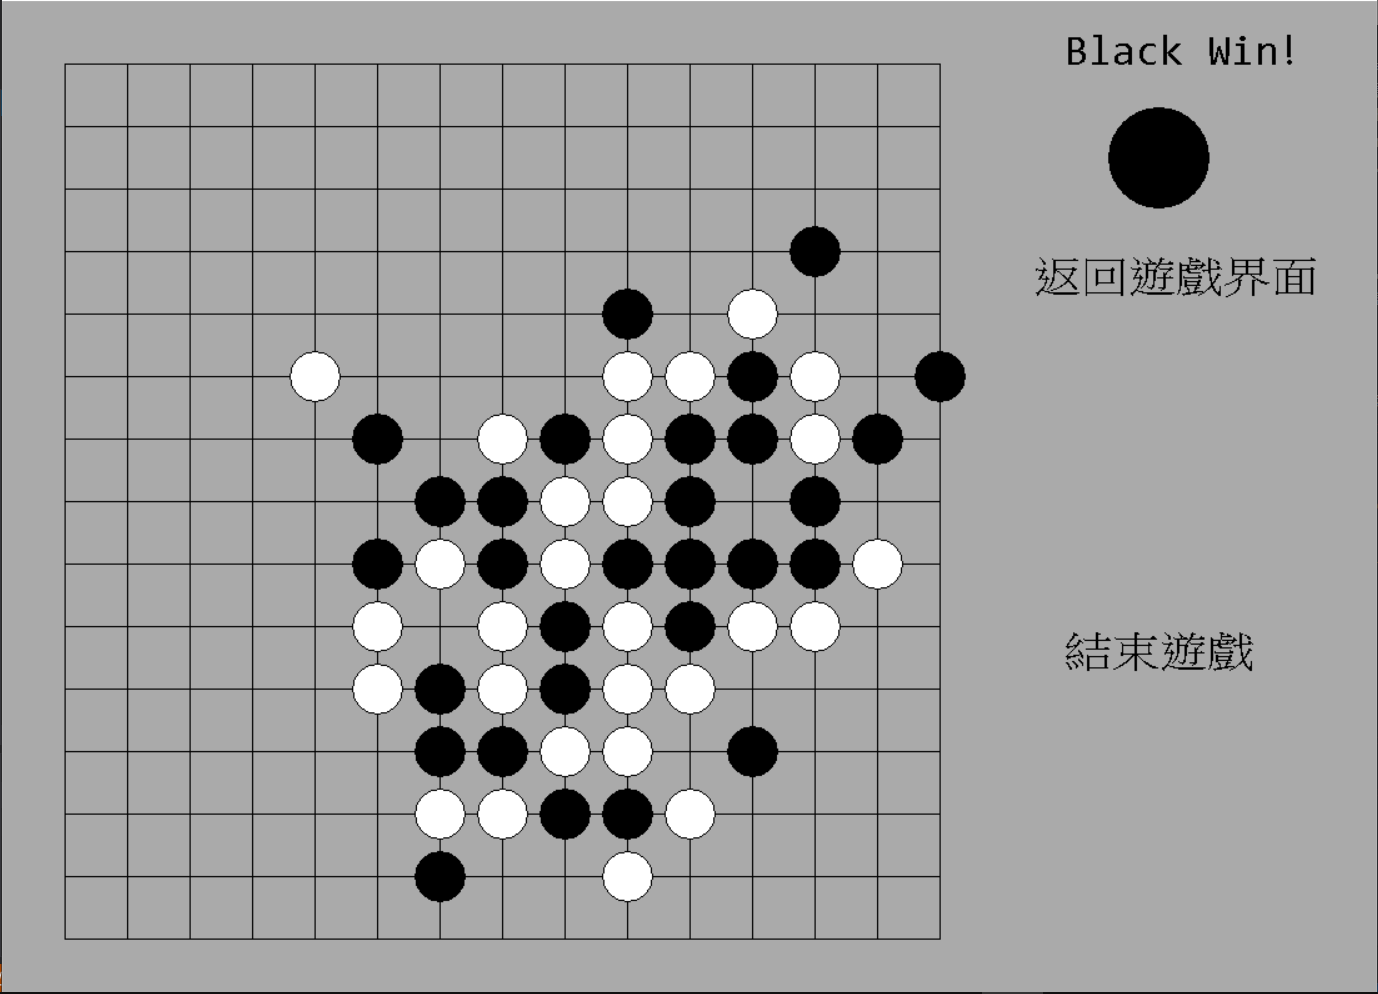
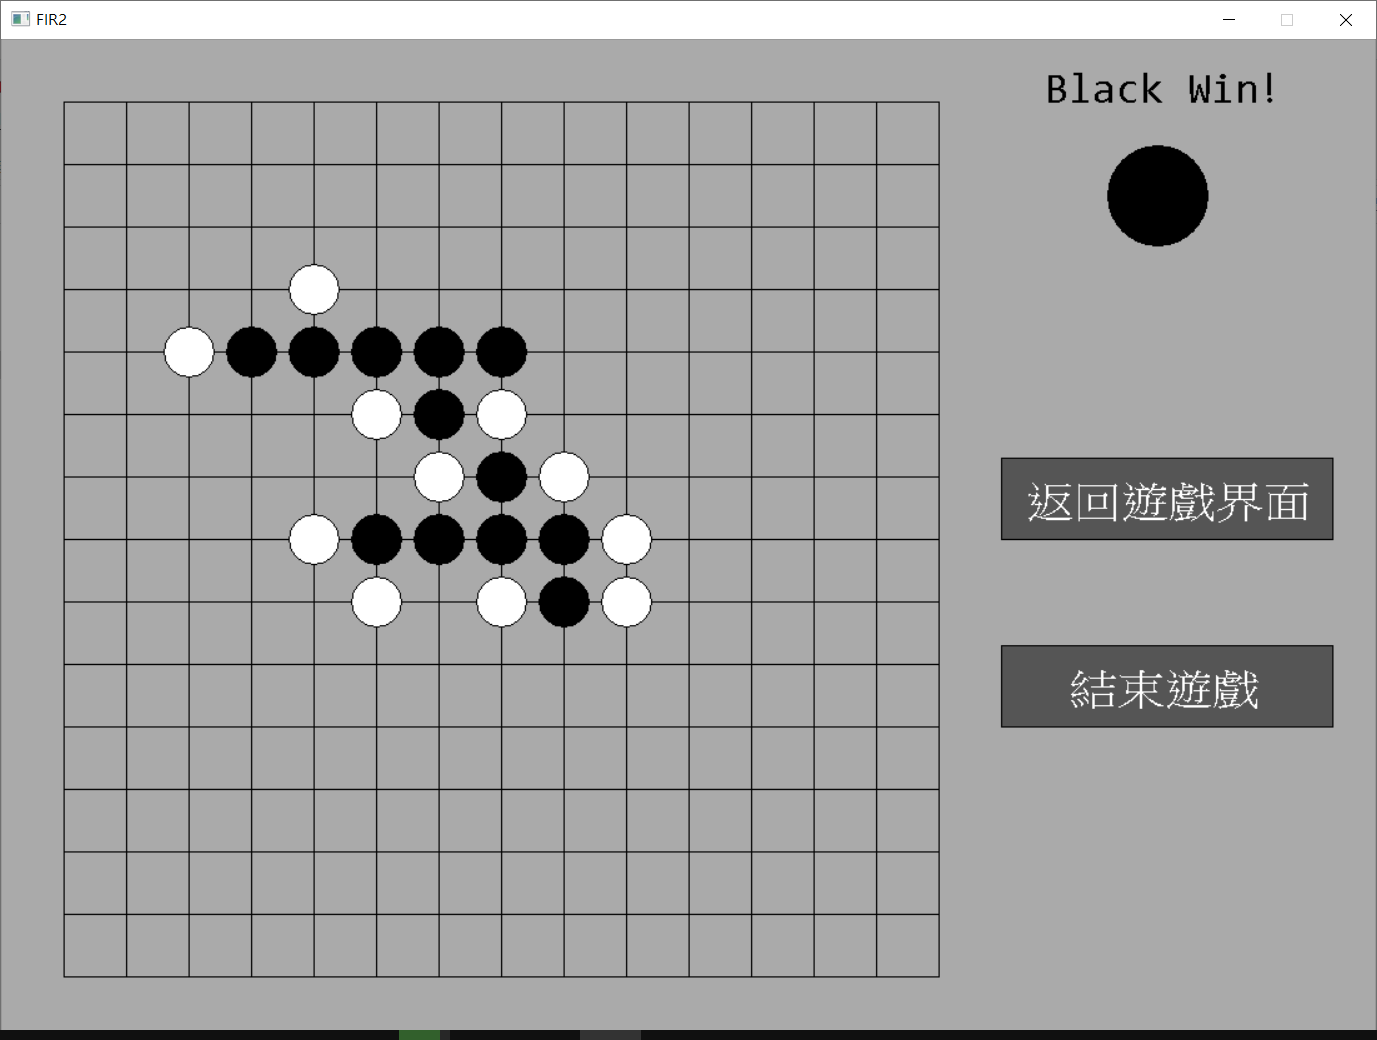
更新了UI,AI部分研究中

Changed region(s): [[0.0, 0.0, 1.0, 1.0], [0.7182, 0.5926, 0.968, 0.7173], [0.7182, 0.4366, 0.968, 0.5302]]

diff --git a/实验/實驗報告.md b/实验/實驗報告.md
@@ -1,91 +1,70 @@
-FIR robot ver 1.1
-在這五子棋程式中,玩家可以:
-	-自行選擇以黑子和白子(先手和後手)下棋
-	-隨機選擇的方式來決定以黑子或白子下棋
-	-隨機選擇的方式中可以重抽
+FIR robot ver 1.1 在這五子棋程式中,玩家可以: -自行選擇以黑子和白子(先手和後手)下棋 -隨機選擇的方式來決定以黑子或白子下棋 -隨機選擇的方式中可以重抽
 
 在程式中:
-	-沒有設計禁手以及時間限制
-	-玩家可以悔棋(可多步回滾)
-	-對局時會顯示該到哪一方下子(黑白方)
-	-玩家可以重新開始這一局(不會改變黑白子及下棋順序)
-	-完成對局後,玩家可以選擇再來一局(可以改變黑白子及下棋順序,包括自行選擇及隨機選擇)
-	-對局時及對局後可以隨時退出程式
+ -沒有設計禁手以及時間限制
+ -玩家可以悔棋(可多步回滾)
+ -對局時會顯示該到哪一方下子(黑白方)
+ -玩家可以重新開始這一局(不會改變黑白子及下棋順序)
+ -完成對局後,玩家可以選擇再來一局(可以改變黑白子及下棋順序,包括自行選擇及隨機選擇) 
+-對局時及對局後可以隨時退出程式
 
-如何做:
-	-使用了哪些庫:
-		-<easy-x.h>
-		-<windows.h>
-		-<graphics.h>
-		-<Windows.h>
-		-<conio.h>
-		-<time.h>
-		-<stdlib.h>
-		-<stdio.h>
+如何做: -使用了哪些庫: -<easy-x.h> -<windows.h> -<graphics.h> -<Windows.h> -<conio.h> -<time.h> -<stdlib.h> -<stdio.h>
 
-	-在Visual Studio 2019 上進行程式的編寫
+-在Visual Studio 2019 上進行程式的編寫
 
-	UI部分:
-		-以 easy-x 進行UI的繪製
-		-以 random 的方式來實現隨機選擇的操作
-		-以 grapjics.h 中的 MOUSEMSG 來實現程式中鼠標的操作
+UI部分:
+	-以 easy-x 進行UI的繪製
+	-以 random 的方式來實現隨機選擇的操作
+	-以 grapjics.h 中的 MOUSEMSG 來實現程式中鼠標的操作
 
-	AI部分:(目前只有一層的思考)
-		-在程序中寫入各種特殊棋型的模型
+AI部分:(目前只有一層的思考)
+	-在程序中寫入各種特殊棋型的模型
 
-			寫入模型的 實現代碼(以活五棋型為例):
-				int linkFive(point p1, point p2, point p3, point p4, point p5, int color) {//*****
-					if (p1.state == p2.state &&
-						p2.state == p3.state &&
-						p3.state == p4.state &&
-						p4.state == p5.state &&
-						p5.state == color) return 1;
-					return 0;
-				}
+		寫入模型的 實現代碼(以活五棋型為例):
+			int linkFive(point p1, point p2, point p3, point p4, point p5, int color) {//*****
+				if (p1.state == p2.state &&
+					p2.state == p3.state &&
+					p3.state == p4.state &&
+					p4.state == p5.state &&
+					p5.state == color) return 1;
+				return 0;
+			}
 
-		-在 robot2 函數中:
-			-以 max 和 min 變量分別表示 AI方 與 敵方 可得到的最大分數,
-				並以 max_p 以及 min_p 記錄所對應的位置
-			-以 for 循環遍歷棋盤并將空格子以 checkVal 函數取得該格下不同子時的分數
-			-遍歷時更新 max, min, max_p 以及 min_p 的值
-			-遍歷完成後,比較 max 與 min 的大小,並返回 max_p 或 min_p 作為AI要下的位置
+	-在 robot2 函數中:
+		-以 max 和 min 變量分別表示 AI方 與 敵方 可得到的最大分數,
+			並以 max_p 以及 min_p 記錄所對應的位置
+		-以 for 循環遍歷棋盤并將空格子以 checkVal 函數取得該格下不同子時的分數
+		-遍歷時更新 max, min, max_p 以及 min_p 的值
+		-遍歷完成後,比較 max 與 min 的大小,並返回 max_p 或 min_p 作為AI要下的位置
 
-		-在 checkVal 函數中:
-			-以 val 變量表示該格的分數
-			-在 checkXX (XX為棋型代號) 函數中,利用該棋型的模型判斷這格可以形成該棋型的數量
-			-將 checkXX 的值乘以該棋型的分數(儲存在 score 數組中),並加在 val 上
-			-若果該格不能形成任何特殊棋型,則在 val 中加上象徵性的分數
-			-返回 val 的值
+	-在 checkVal 函數中:
+		-以 val 變量表示該格的分數
+		-在 checkXX (XX為棋型代號) 函數中,利用該棋型的模型判斷這格可以形成該棋型的數量
+		-將 checkXX 的值乘以該棋型的分數(儲存在 score 數組中),並加在 val 上
+		-若果該格不能形成任何特殊棋型,則在 val 中加上象徵性的分數
+		-返回 val 的值
 
-				checkXX 的實現代碼(以活五棋型為例):
-					int checkL5(point p1, struct point p[25][25], int color) {
-						int count = 0;
-						p[p1.place.x][p1.place.y].state = color;
-						for (int i = Max(MIN, p1.place.x - WIN + 1); i < Min(MAX, p1.place.x + WIN); i++) {
-							for (int j = Max(MIN, p1.place.y - WIN + 1); j < Min(MAX, p1.place.y + WIN); j++) {
-								count += linkFive(p[i][j], p[i][j + 1], p[i][j + 2], p[i][j + 3], p[i][j + 4], color);
-								count += linkFive(p[i][j], p[i + 1][j], p[i + 2][j], p[i + 3][j], p[i + 4][j], color);
-								count += linkFive(p[i][j], p[i + 1][j + 1], p[i + 2][j + 2], p[i + 3][j + 3], p[i + 4][j + 4], color);
-								count += linkFive(p[i][j], p[i + 1][j - 1], p[i + 2][j - 2], p[i + 3][j - 3], p[i + 4][j - 4], color);
-							}
+			checkXX 的實現代碼(以活五棋型為例):
+				int checkL5(point p1, struct point p[25][25], int color) {
+					int count = 0;
+					p[p1.place.x][p1.place.y].state = color;
+					for (int i = Max(MIN, p1.place.x - WIN + 1); i < Min(MAX, p1.place.x + WIN); i++) {
+						for (int j = Max(MIN, p1.place.y - WIN + 1); j < Min(MAX, p1.place.y + WIN); j++) {
+							count += linkFive(p[i][j], p[i][j + 1], p[i][j + 2], p[i][j + 3], p[i][j + 4], color);
+							count += linkFive(p[i][j], p[i + 1][j], p[i + 2][j], p[i + 3][j], p[i + 4][j], color);
+							count += linkFive(p[i][j], p[i + 1][j + 1], p[i + 2][j + 2], p[i + 3][j + 3], p[i + 4][j + 4], color);
+							count += linkFive(p[i][j], p[i + 1][j - 1], p[i + 2][j - 2], p[i + 3][j - 3], p[i + 4][j - 4], color);
 						}
-						p[p1.place.x][p1.place.y].state = 0;
-						return count;
 					}
+					p[p1.place.x][p1.place.y].state = 0;
+					return count;
+				}
+效果: 
+-檔案大小: -cpp 檔: 32kb -exe 檔: 142kb 
+-運行狀況: -UI部分: 目前沒有出現會影響體驗的卡頓問題 -AI部分: 因只思考一層,AI目前能在0.2秒內下子 -棋力: 目前可以打敗棋力不太強的人
 
-效果:
-	-檔案大小:
-		-cpp 檔: 32kb
-		-exe 檔: 142kb
-	-運行狀況:
-		-UI部分: 目前沒有出現會影響體驗的卡頓問題
-		-AI部分: 因只思考一層,AI目前能在0.2秒內下子
-	-棋力: 目前可以打敗棋力不太強的人
-
-參考文獻:
-UI:https://blog.csdn.net/qq_63670969/article/details/125832296
-分值參考:https://blog.csdn.net/Starry_error/article/details/125498493
+參考文獻: UI:https://blog.csdn.net/qq_63670969/article/details/125832296 分值參考:https://blog.csdn.net/Starry_error/article/details/125498493
 
 更新:
-3/1/2023:  完成UI,AI(只有一層棋力)
+ 3/1/2023: 完成UI,AI(只有一層棋力) 
 12/2/2023: 修改 UI ,現在鼠標靠近按鈕時按鈕內文字會變色
